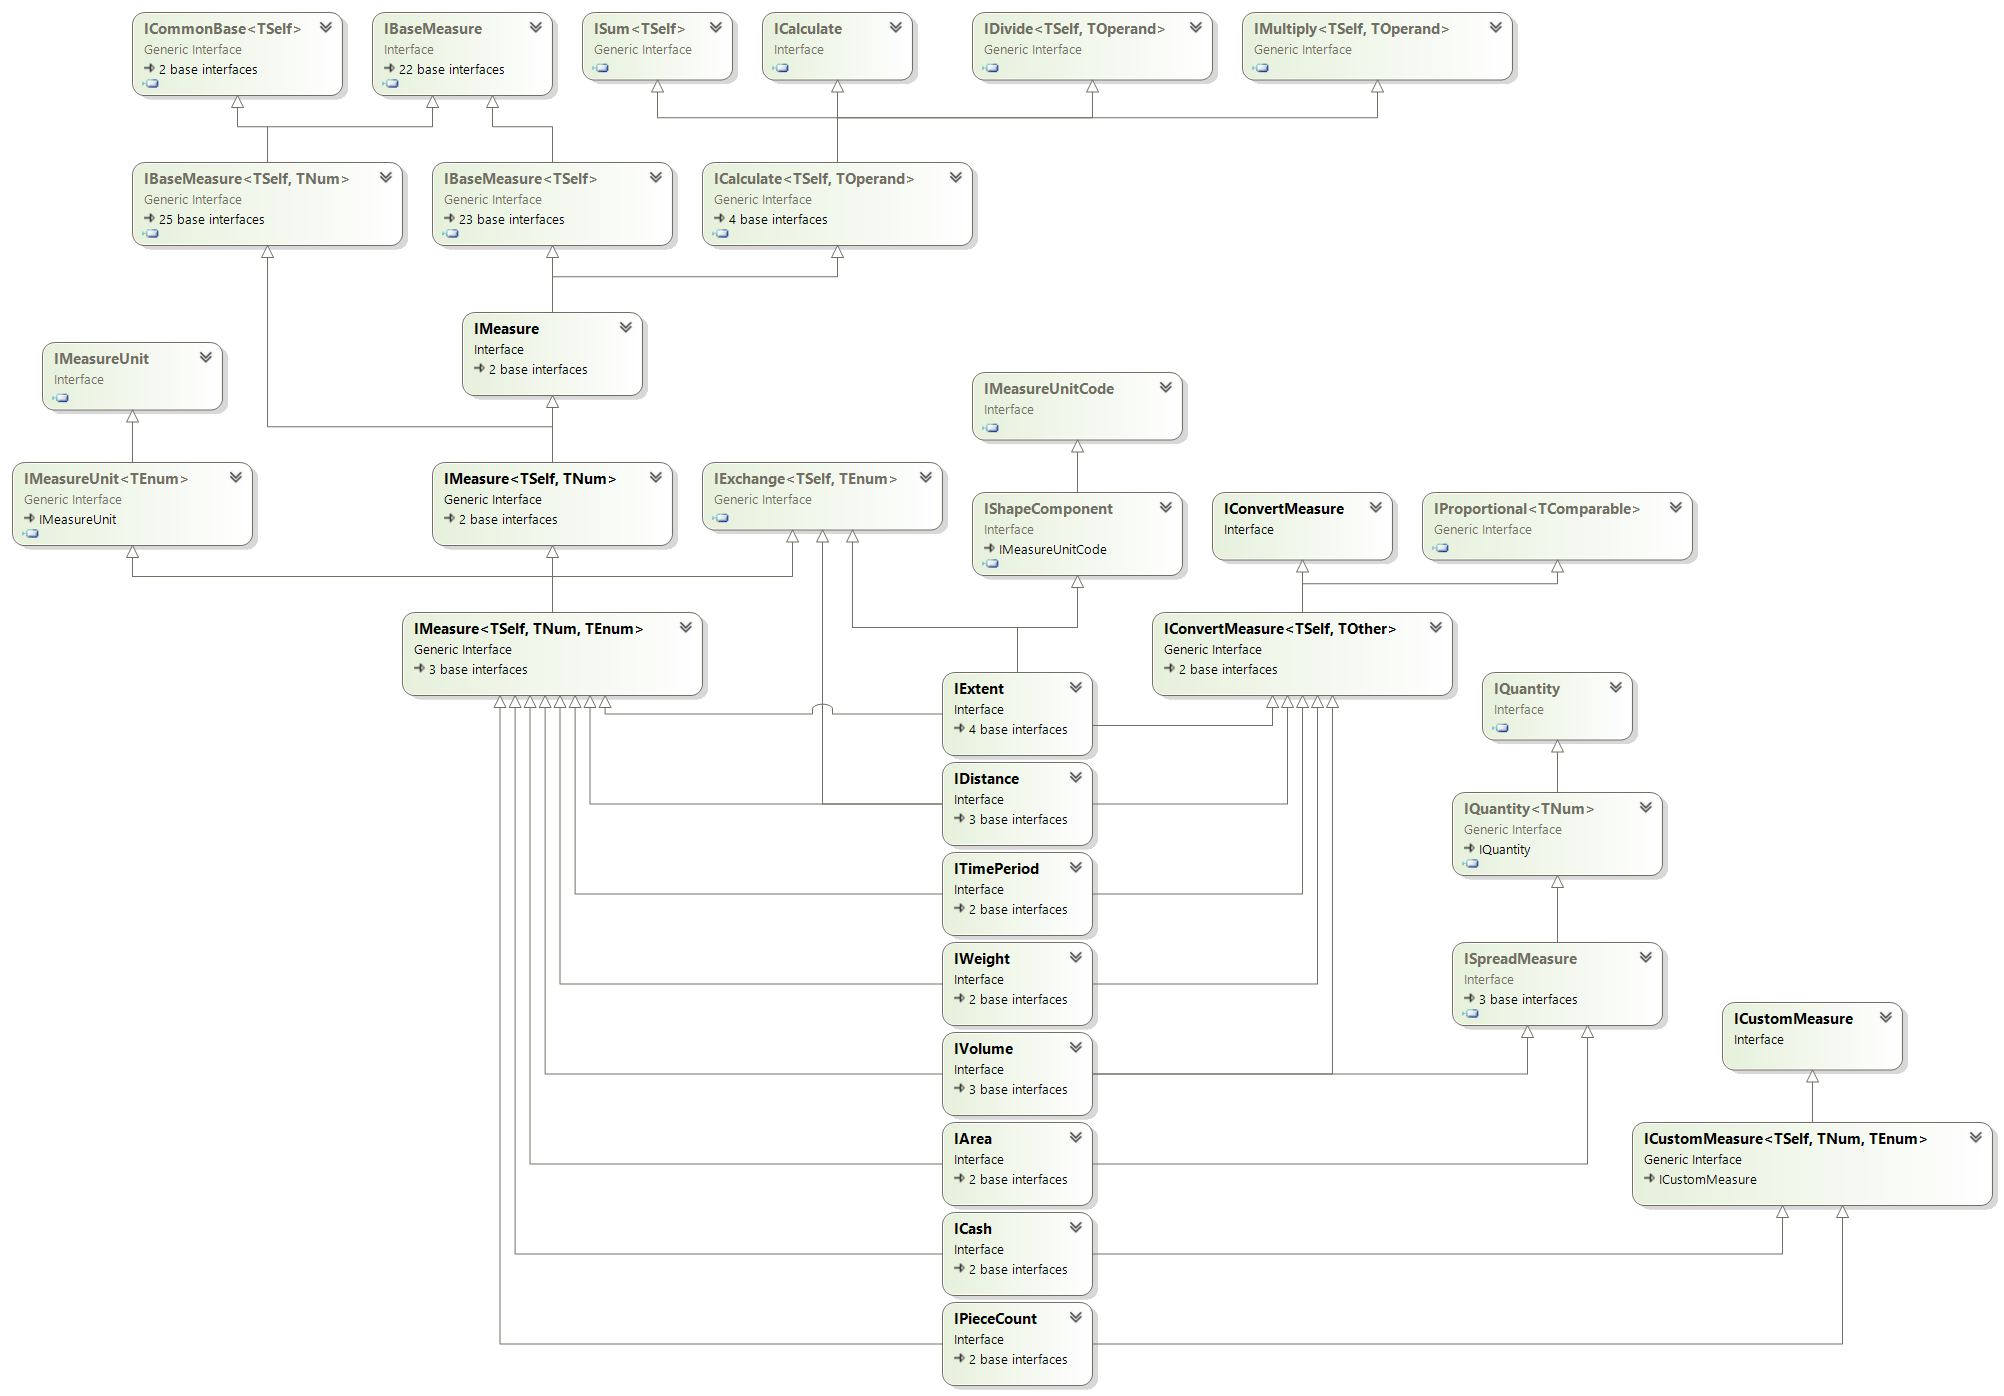
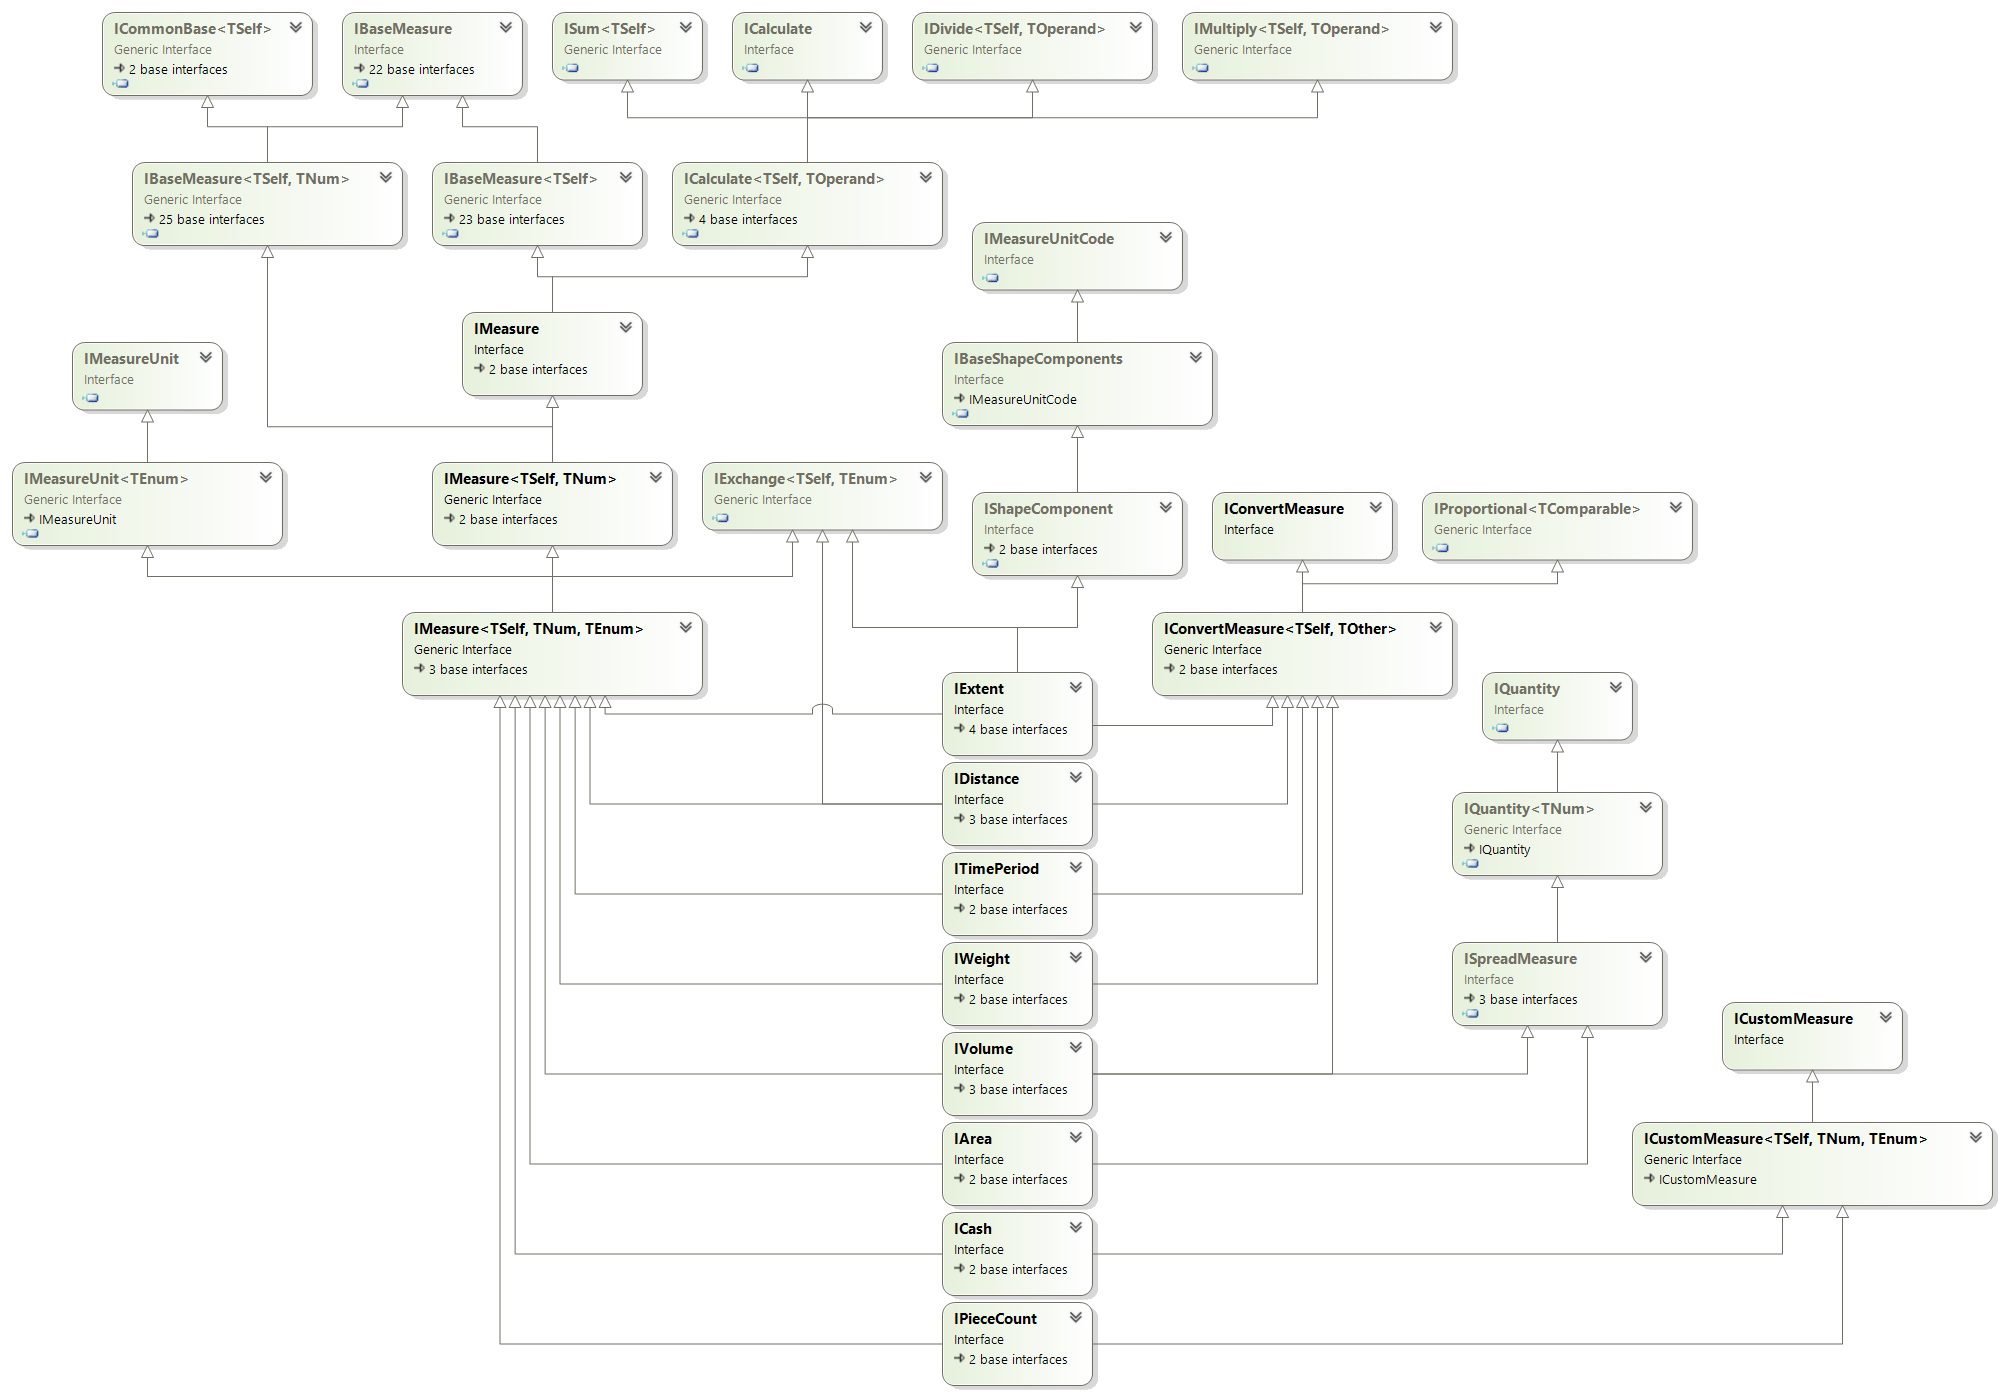
Class diagrams

diff --git a/_BaseTypes/Shapes/Behaviors/IShapeComponents.cs b/_BaseTypes/Shapes/Behaviors/IShapeComponents.cs
@@ -1,6 +1,6 @@
 namespace CsabaDu.FooVaria.BaseTypes.Shapes.Behaviors
 {
-    public interface IShapeComponents : IShapeComponentCount, IBaseShapeComponents
+    public interface IShapeComponents : IShapeComponentCount
     {
         IEnumerable<IShapeComponent> GetShapeComponents();
         IShapeComponent? GetValidShapeComponent(IQuantifiable? quantifiable);
